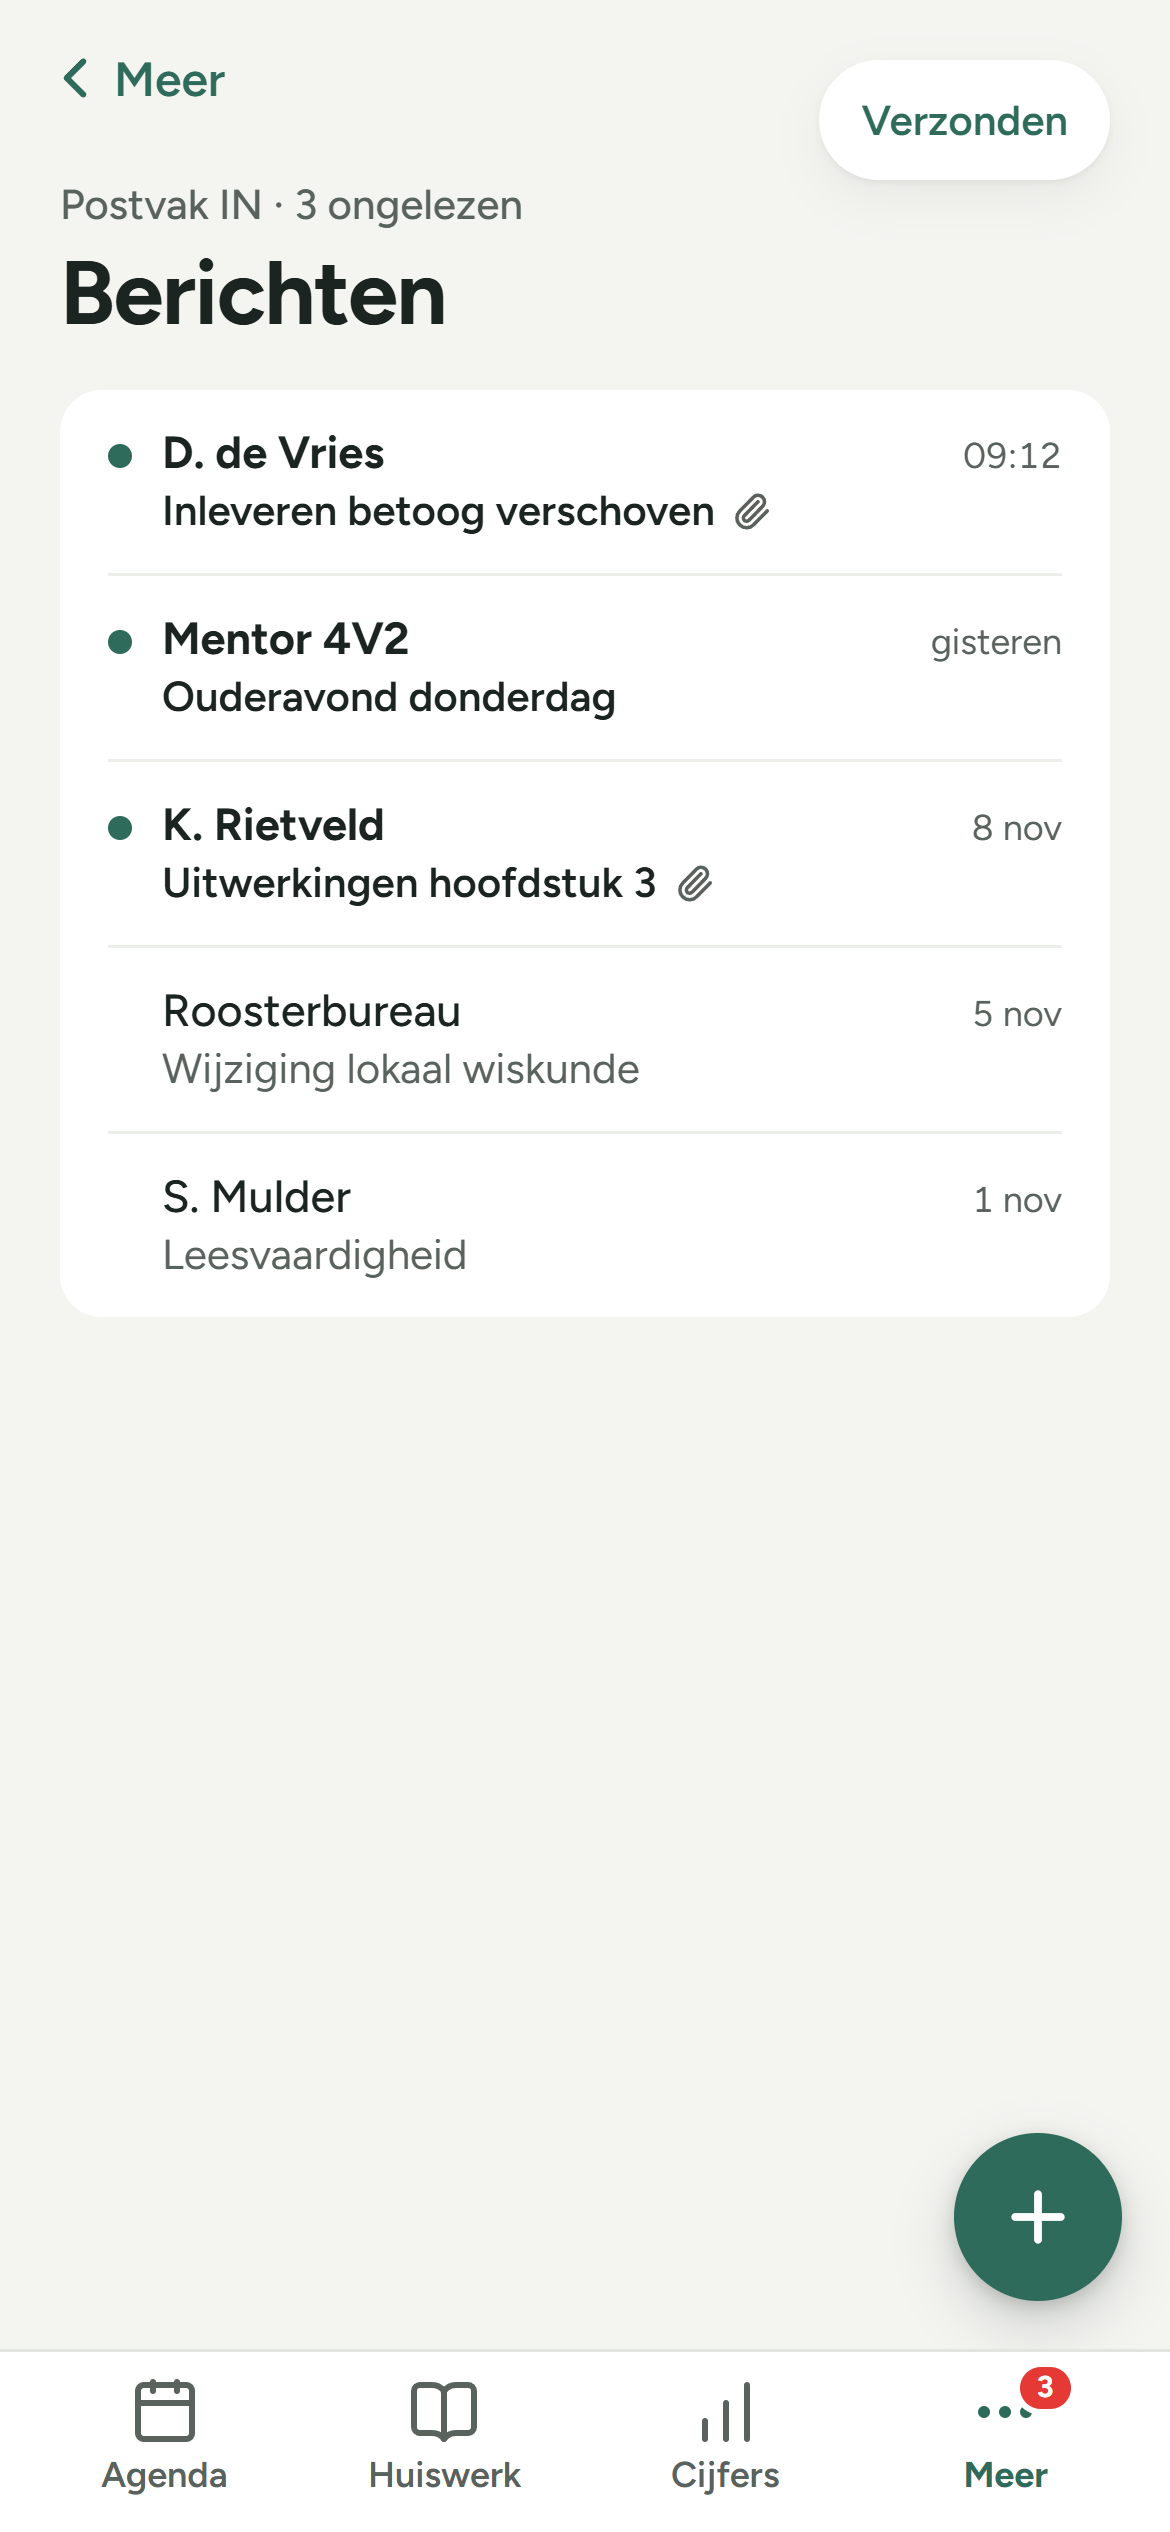
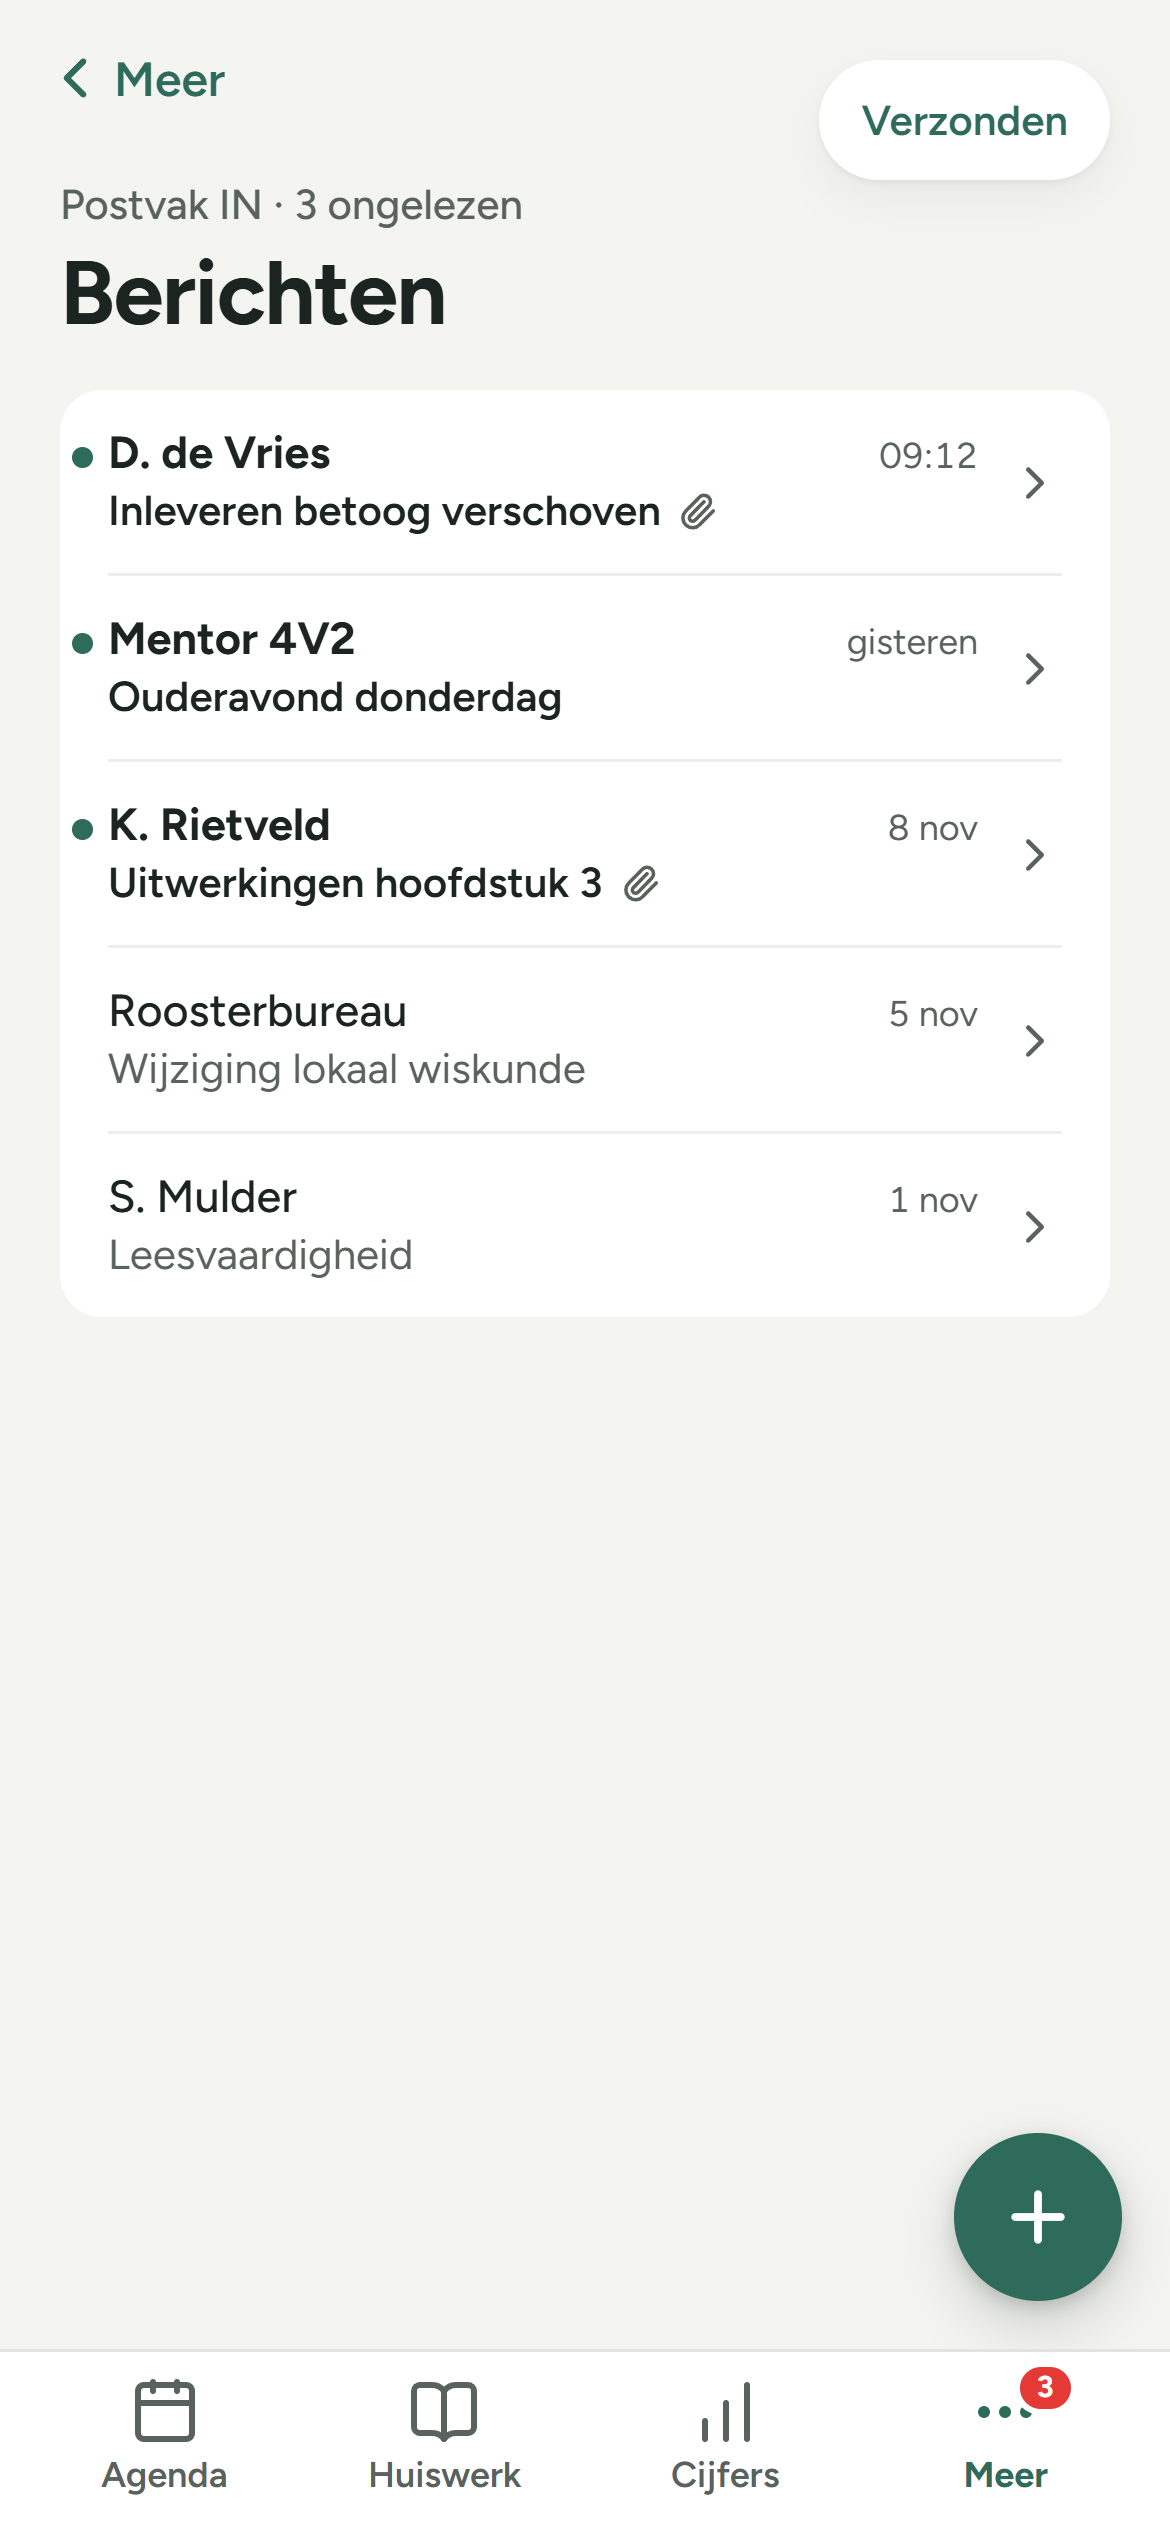
Berichten: tekst even ver links als bij Huiswerk (stipje in de rand), pijltje rechts op elke rij

diff --git a/src/screens/Berichten.tsx b/src/screens/Berichten.tsx
@@ -1,6 +1,6 @@
 import { useEffect, useState } from "react";
 import { Link } from "react-router-dom";
-import { Paperclip, Plus } from "lucide-react";
+import { ChevronRight, Paperclip, Plus } from "lucide-react";
 import { api, type BerichtKort, type BerichtMap } from "../api";
 import { OfflineRegel } from "../components/ui/OfflineRegel";
 import { PaginaKop } from "../components/ui/PaginaKop";
@@ -54,6 +54,8 @@ function BerichtRij({ b, verzonden }: { b: BerichtKort; verzonden: boolean }) {
         </span>
         {!b.gelezen && <span className="visueel-verborgen">Ongelezen</span>}
       </span>
+      {/* Net als bij Huiswerk: een subtiel pijltje dat de rij te openen is. */}
+      <ChevronRight size={18} strokeWidth={2} color="var(--tekst-secundair)" aria-hidden="true" />
     </Link>
   );
 }

diff --git a/src/components/meer/meer.css b/src/components/meer/meer.css
@@ -13,7 +13,9 @@
 
 /* Eén bericht in het postvak: stip voor ongelezen, afzender en datum, onderwerp. */
 .berichtrij {
+  position: relative;
   display: flex;
+  align-items: center;
   gap: 10px;
   padding: 12px 0;
   border-bottom: 1px solid var(--lijn-zacht);
@@ -29,11 +31,16 @@
   background: var(--vlak);
 }
 
+/*
+ * Het stipje voor ongelezen hangt in de rand van de kaart, zodat de tekst even ver links begint als bij
+ * Huiswerk.
+ */
 .berichtrij__stip {
-  width: 8px;
-  height: 8px;
-  flex: 0 0 auto;
-  margin-top: 6px;
+  position: absolute;
+  left: -12px;
+  top: 19px;
+  width: 7px;
+  height: 7px;
   border-radius: 50%;
   background: var(--groen-tekst);
 }
@@ -43,6 +50,7 @@
 }
 
 .berichtrij__tekst {
+  align-self: stretch;
   flex: 1 1 auto;
   min-width: 0;
   display: flex;
